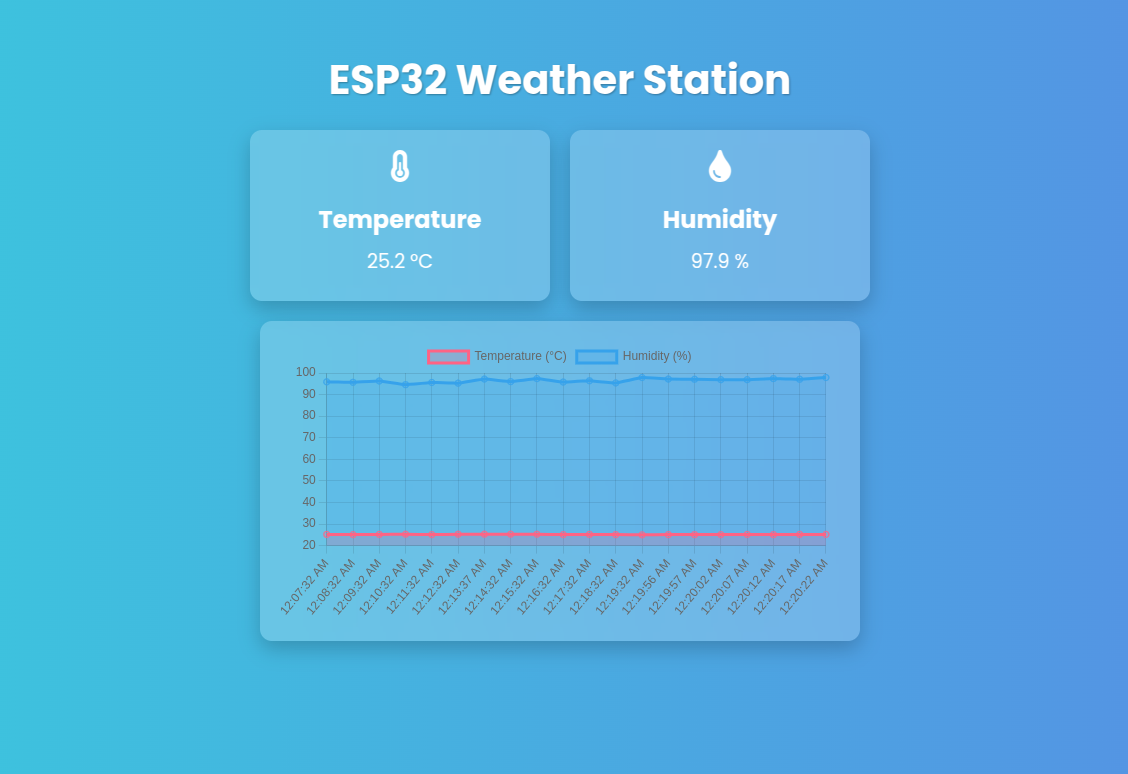
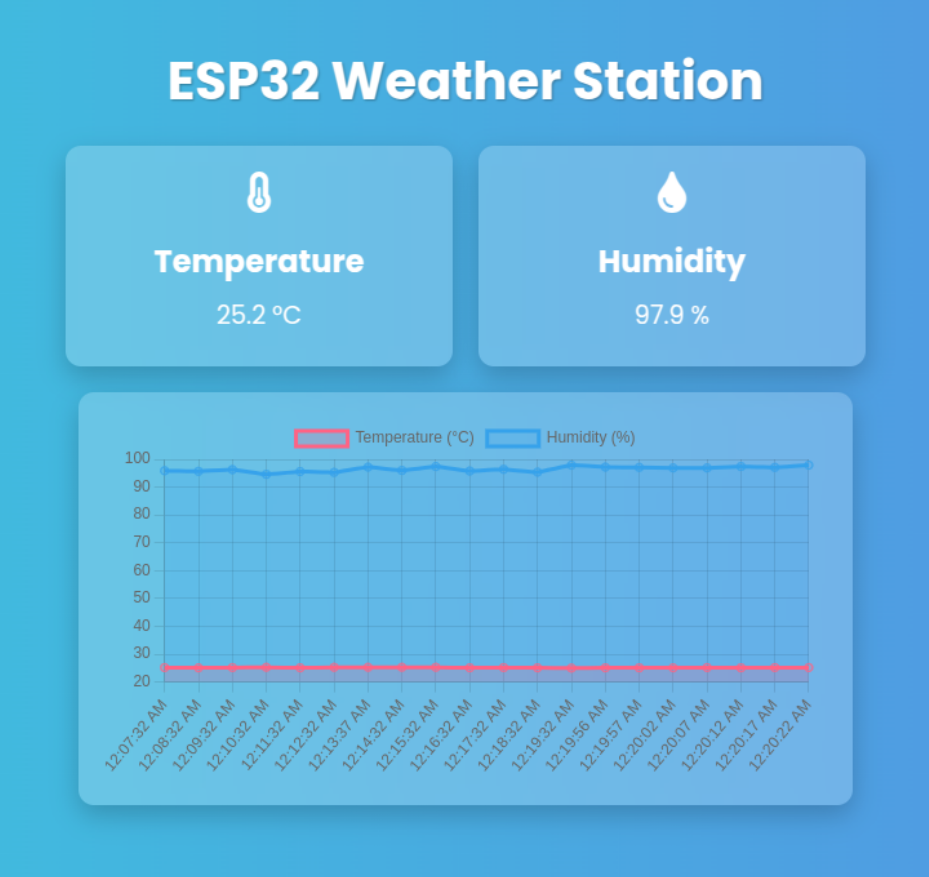
assets

diff --git a/README.md b/README.md
@@ -1,6 +1,6 @@
 # ESP32 Weather Alert System
 
-![ESP32 Weather Alert](https://github.com/yourusername/esp32-c3-home-weather-alert/blob/main/assets/webgui.png?raw=true)
+<!-- ![ESP32 Weather Alert](https://github.com/yourusername/esp32-c3-home-weather-alert/blob/main/assets/webgui.png?raw=true) -->
 
 ![ESP32 Weather Alert](assets/webgui.png)
 
@@ -44,7 +44,8 @@ The **ESP32 Weather Alert System** is a comprehensive project that utilizes an E
 
 ### Example Hardware Setup
 
-![Hardware Setup](https://github.com/yourusername/esp32-c3-home-weather-alert/blob/main/assets/hardware_setup.jpg?raw=true)
+![Hardware Setup](https://github.com/yourusername/esp32-c3-home-weather-alert/assets/hardware_setup.jpg?raw=true)
+<!-- ![Hardware Setup](https://github.com/yourusername/esp32-c3-home-weather-alert/blob/main/assets/hardware_setup.jpg?raw=true) -->
 
 ## Software Requirements
 
